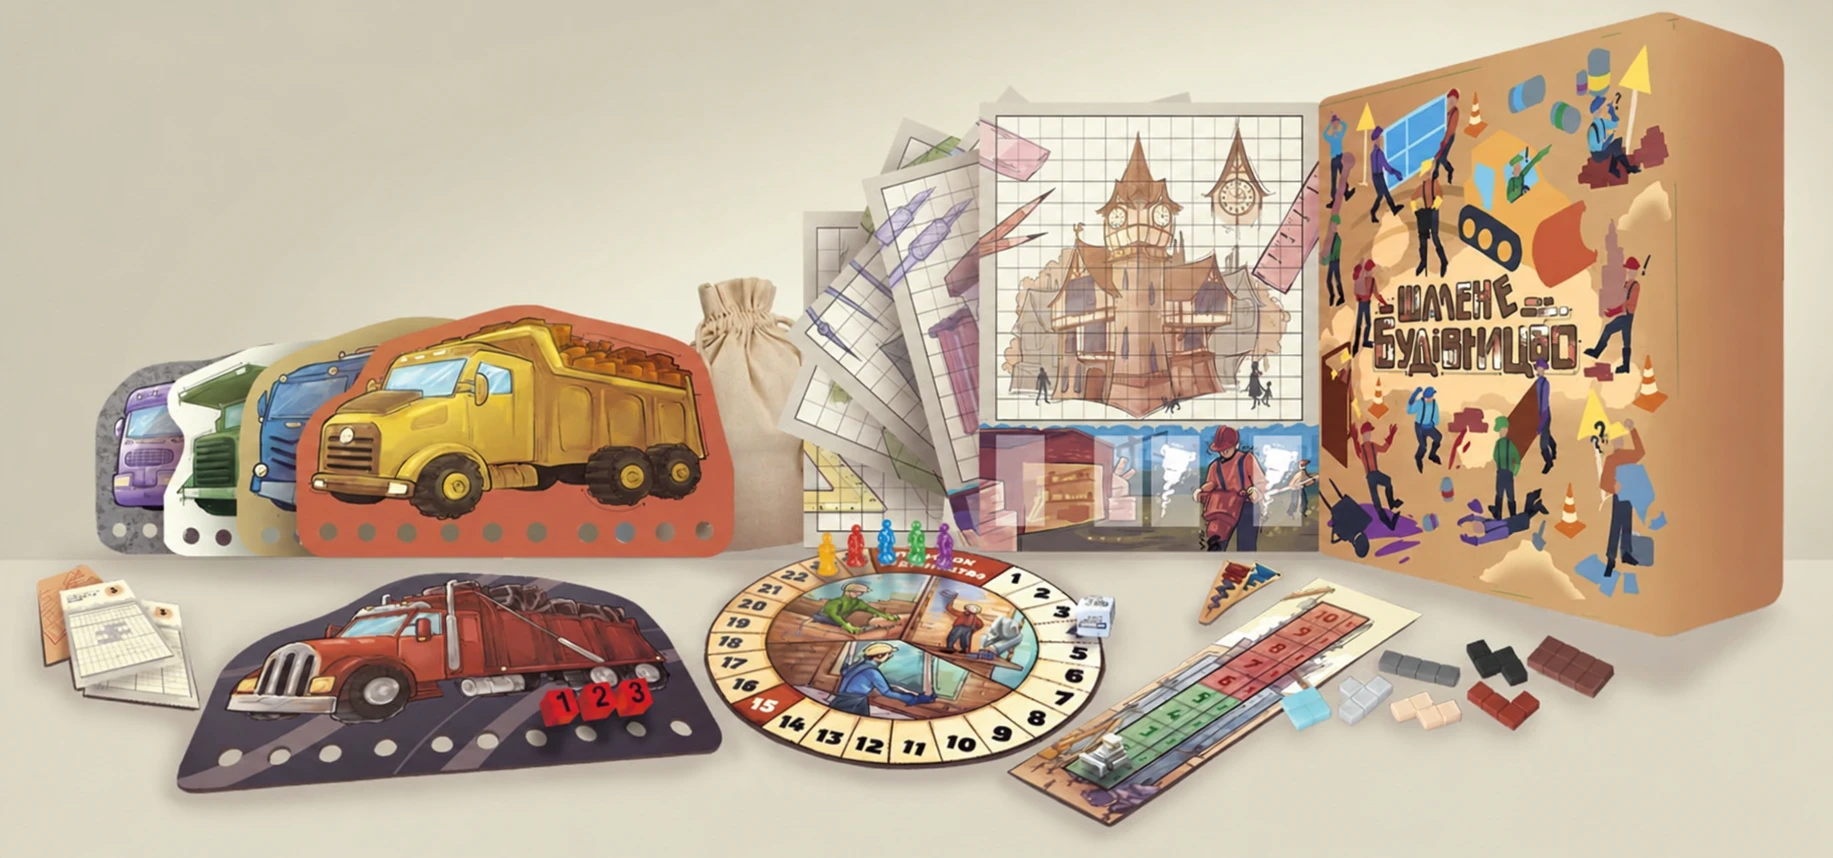
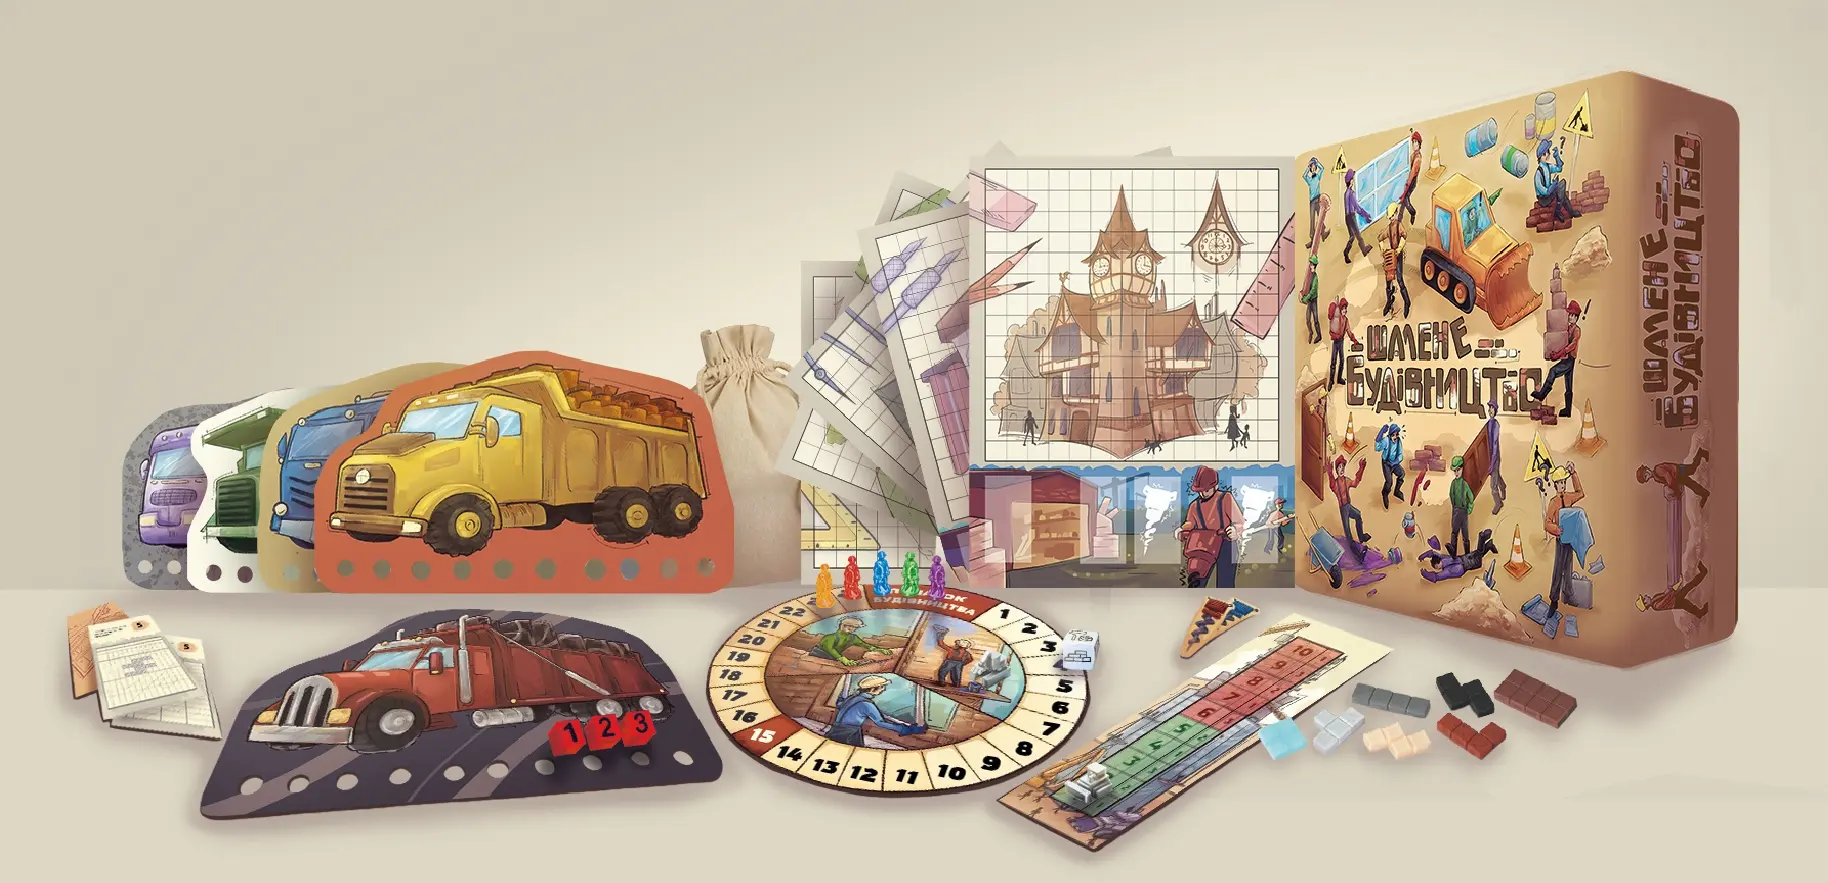
Swap in the publisher's product photo
The new shot is 1828x883 where the old one was 1833x858, so the hardcoded
width/height go with it -- stale intrinsic dimensions make the browser reserve
the wrong box and the image jumps as it loads.

diff --git a/src/App.jsx b/src/App.jsx
@@ -241,8 +241,8 @@ export default function App() {
           <div className="game-image">
             <img
               src="assets/game-clean.webp"
-              width="1833"
-              height="858"
+              width="1828"
+              height="883"
               alt={t.gameAlt}
               loading="lazy"
             />
